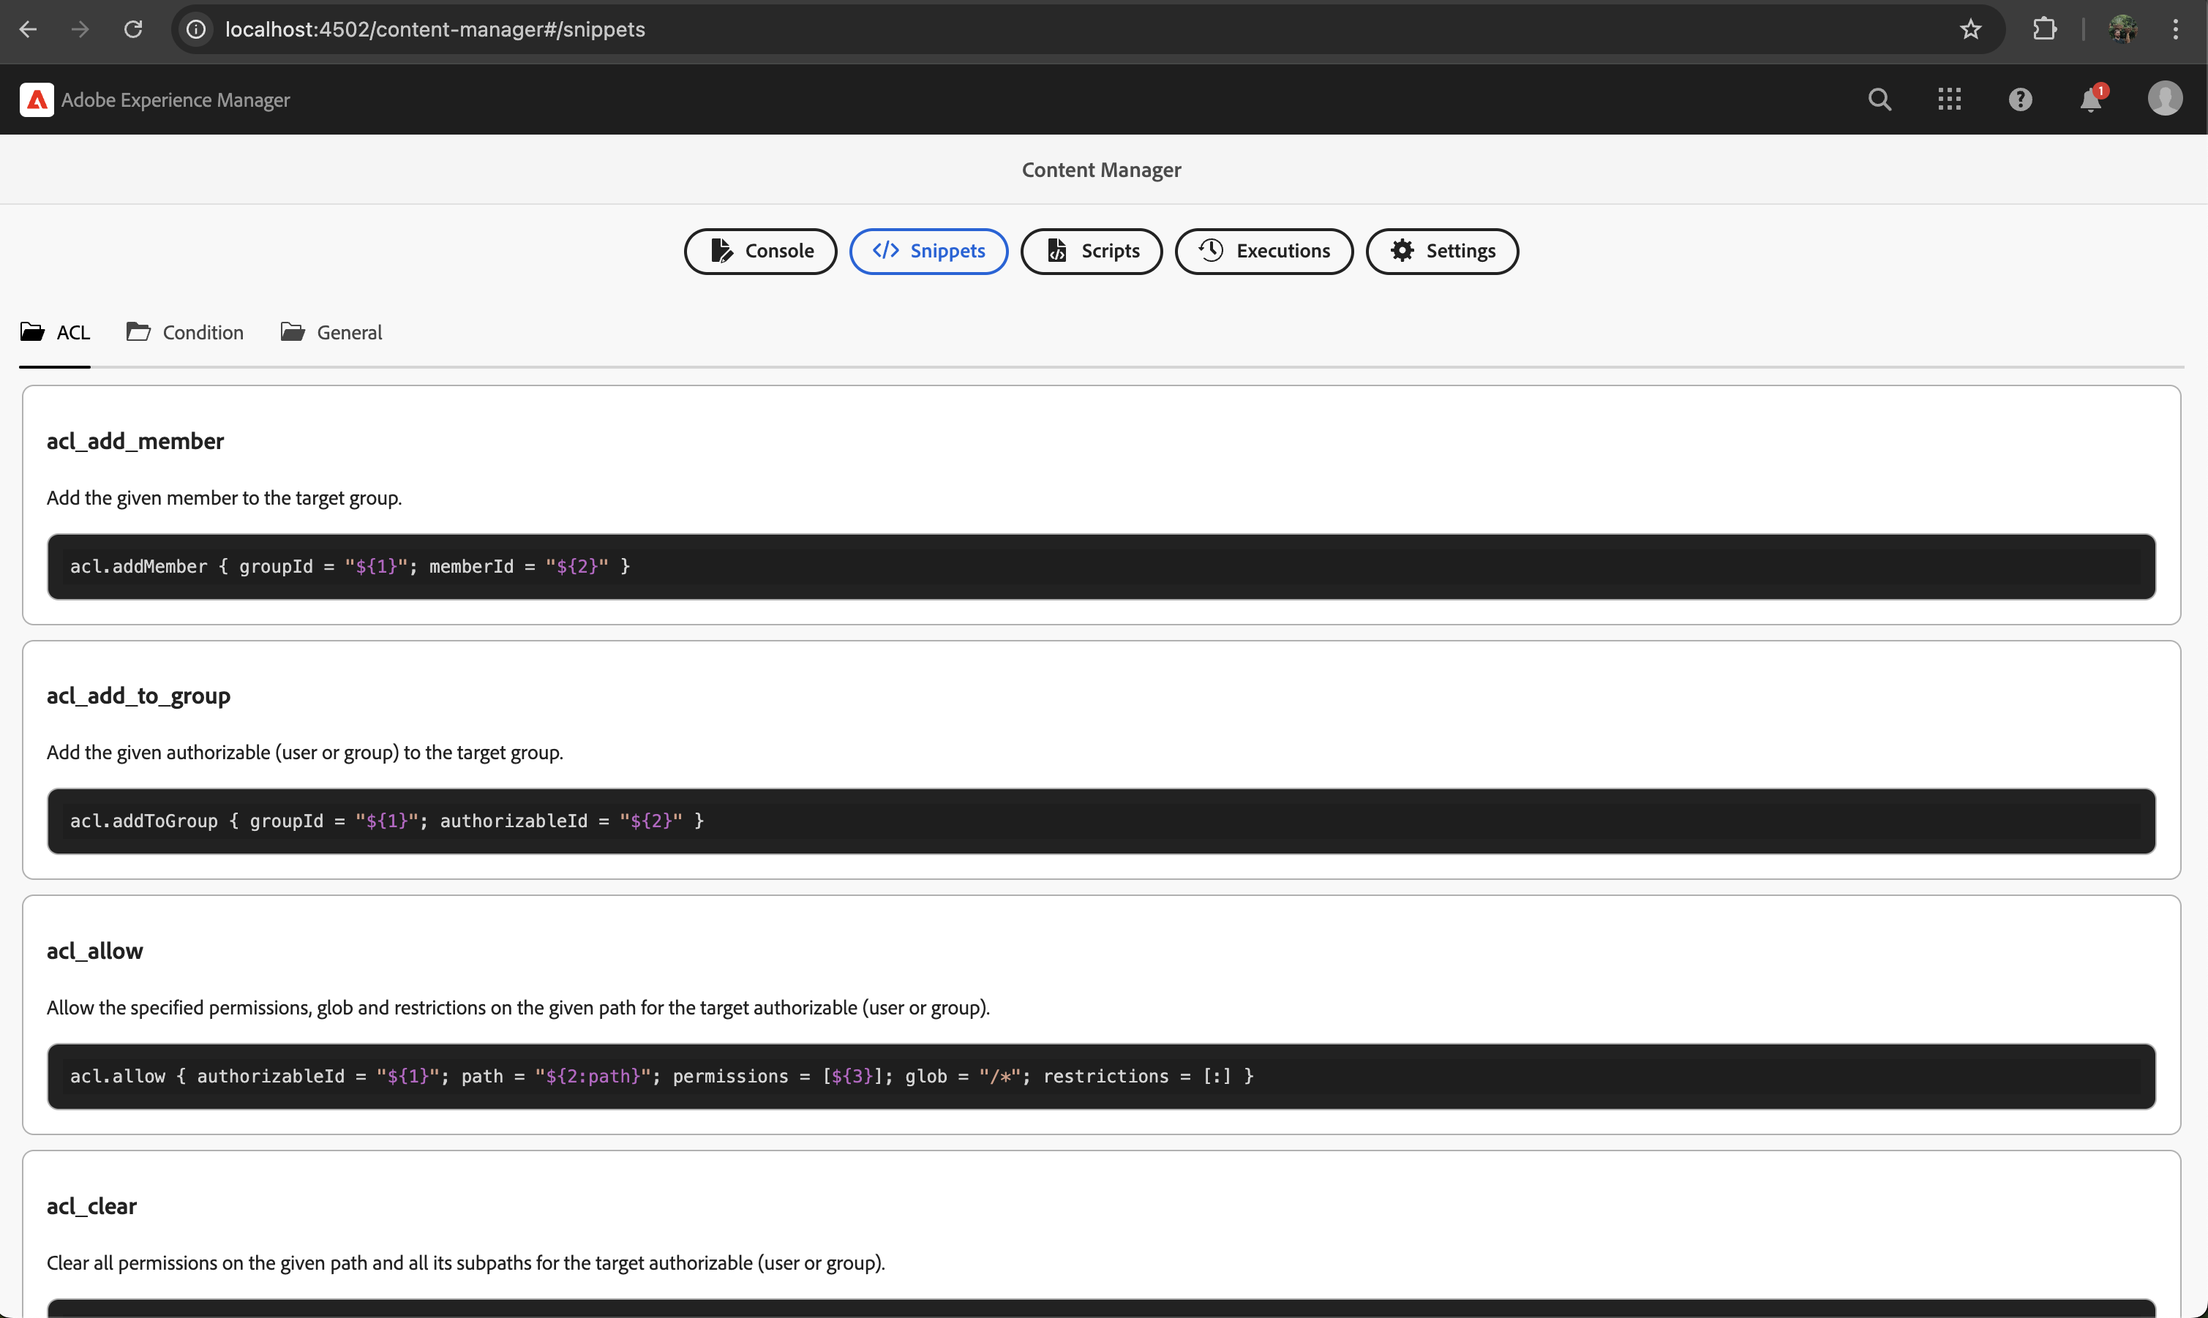
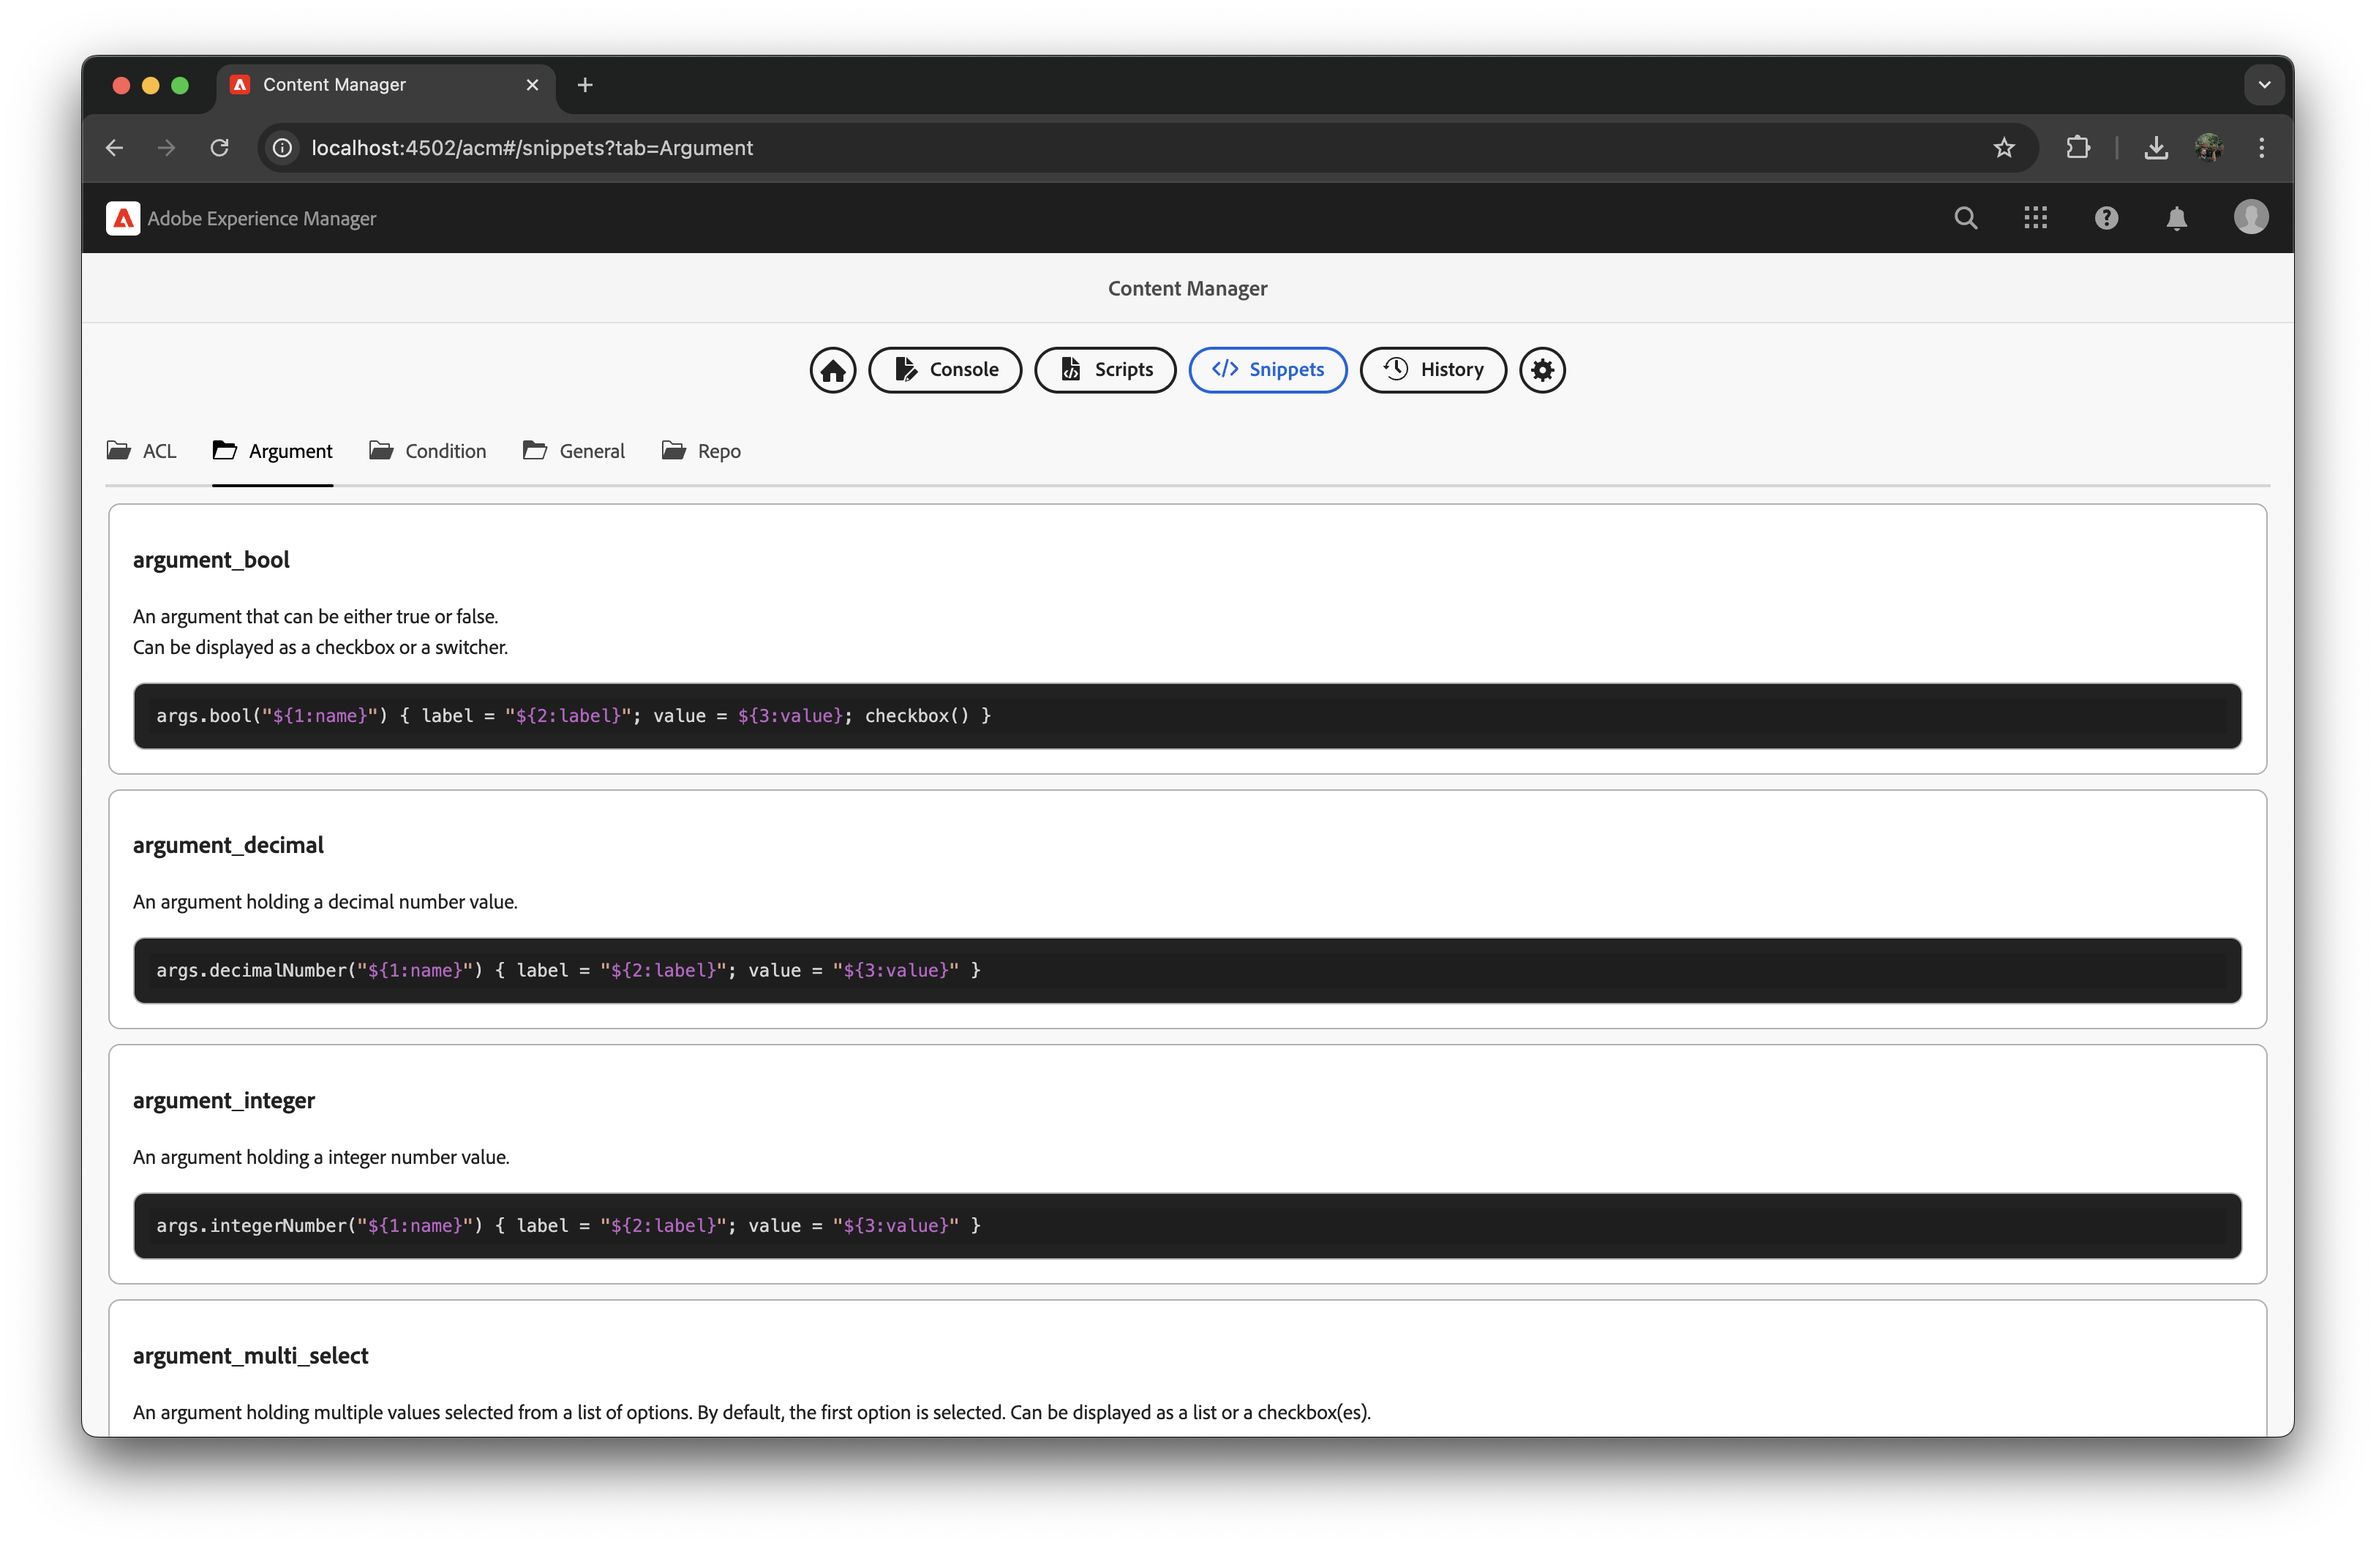
Doc

diff --git a/README.md b/README.md
@@ -16,24 +16,26 @@ ACM is a powerful tool designed to streamline your workflow and enhance producti
 
 ## Table of Contents
 
-- [AEM Content Manager (ACM)](#aem-content-manager-acm)
-    - [Key Features](#key-features)
-        - [All-in-one Solution](#all-in-one-solution)
-        - [New Approach](#new-approach)
-        - [Content Management](#content-management)
-        - [Permissions Management](#permissions-management)
-        - [Data Imports & Exports](#data-imports--exports)
-    - [Installation](#installation)
-    - [Compatibility](#compatibility)
-    - [Documentation](#documentation)
-        - [Usage](#usage)
-        - [Content Scripts](#content-scripts)
-            - [Minimal Example](#minimal-example)
-            - [Arguments Example](#arguments-example)
-            - [ACL Example](#acl-example)
-        - [Extension Scripts](#extension-scripts)
-    - [Development](#development)
-    - [License](#license)
+- [Key Features](#key-features)
+    - [All-in-one Solution](#all-in-one-solution)
+    - [New Approach](#new-approach)
+    - [Content Management](#content-management)
+    - [Permissions Management](#permissions-management)
+    - [Data Imports & Exports](#data-imports--exports)
+- [Installation](#installation)
+- [Compatibility](#compatibility)
+- [Documentation](#documentation)
+    - [Usage](#usage)
+    - [Console](#console)
+    - [Content Scripts](#content-scripts)
+        - [Minimal Example](#minimal-example)
+        - [Arguments Example](#arguments-example)
+        - [ACL Example](#acl-example)
+        - [History](#history)
+    - [Extension Scripts](#extension-scripts)
+    - [Snippets](#snippets)
+- [Development](#development)
+- [License](#license)
 
 ## Key Features
 
@@ -96,6 +98,19 @@ There are two ways to install AEM Content Manager on your AEM instances:
   - OSGi events occurrence indicating temporal instability
   - JCR repository paths presence (e.g., `/content/acme`, `/content/dam/acme`)
 
+### Console
+
+The ACM Console is interactive and offers the following features:
+
+- Execute just-in-time Groovy code.
+- Review the output of the code in real-time.
+- View compilation errors as you type.
+- Access a list of available variables and methods.
+- Utilize code completion assistance for OSGi classes, JCR paths, etc.
+- Quickly insert code templates using snippets.
+
+<img src="docs/screenshot-console-interactive.png" width="640" alt="ACM Console">
+
 ### Content scripts
 
 #### Minimal example
@@ -141,6 +156,8 @@ When the script is executed, the arguments are passed to the `doRun()` method.
 
 There are many built-in argument types to use handling different types of data like string, boolean, number, date, etc. Just check `args` [service](https://github.com/wttech/acm/blob/main/core/src/main/java/com/wttech/aem/acm/core/code/Arguments.java) for more details.
 
+<img src="docs/screenshot-content-script-arguments.png" width="640" alt="ACM Console">
+
 #### ACL example
 
 The following example demonstrates how to create a user and a group, assign permissions, and add members to the group.
@@ -181,6 +198,16 @@ void doRun() {
 Operations done by `acl` service are idempotent, so you can run the script multiple times without worrying about duplicates, failures, or other issues.
 Logging is very descriptive allowing you to see what was done and what was skipped.
 
+<img src="docs/screenshot-content-script-acl-output.png" width="640" alt="ACM ACL Script Output">
+
+### History
+
+All code executions are logged in the history. You can see the status of each execution, including whether it was successful or failed. The history also provides detailed logs for each execution, including any errors that occurred.
+Original code is stored in the history, so you can always refer back to it if needed.
+Complete output as well as argument values are also included to achieve full traceability.
+
+<img src="docs/screenshot-history.png" width="640" alt="ACM History">
+
 ### Extension scripts
 
 To add own code binding or hook into execution process, you can create your own extension Groovy scripts and place them at path like `/conf/acm/settings/extension/acme/main.groovy`.
@@ -200,6 +227,31 @@ void completeExecution(Execution execution) {
    }
 }
 ```
+
+### Snippets
+
+ACM provides a set of snippets that can be used to quickly insert code templates into your scripts. 
+Despite out-of-the-box snippets, you can create your own snippets and share them with your team.
+
+Just create a YAML files in the `/conf/acm/settings/snippets/{project}` folder and add your code there.
+
+#### Example snippet
+
+Note that snippets could contain placeholders, which are replaced with actual values when the snippet is inserted into the script.
+Also snippet documentation could be a GitHub Flavored Markdown file, which is rendered in the UI. As a consequence you can use HTML tags as well, provide links, images, etc.
+
+Let's assume a snippet located at path `/conf/acm/settings/snippet/available/acme/hello.yml` with the following content:
+
+```yaml
+group: Acme
+name: acme_hello
+content: |
+  println "Hello ${1:message} in ACME project!" }
+documentation: |
+  Prints a greeting message in the ACME project.
+```
+
+<img src="docs/screenshot-snippets.png" width="640" alt="ACM Snippets">
 
 ## Development
 
